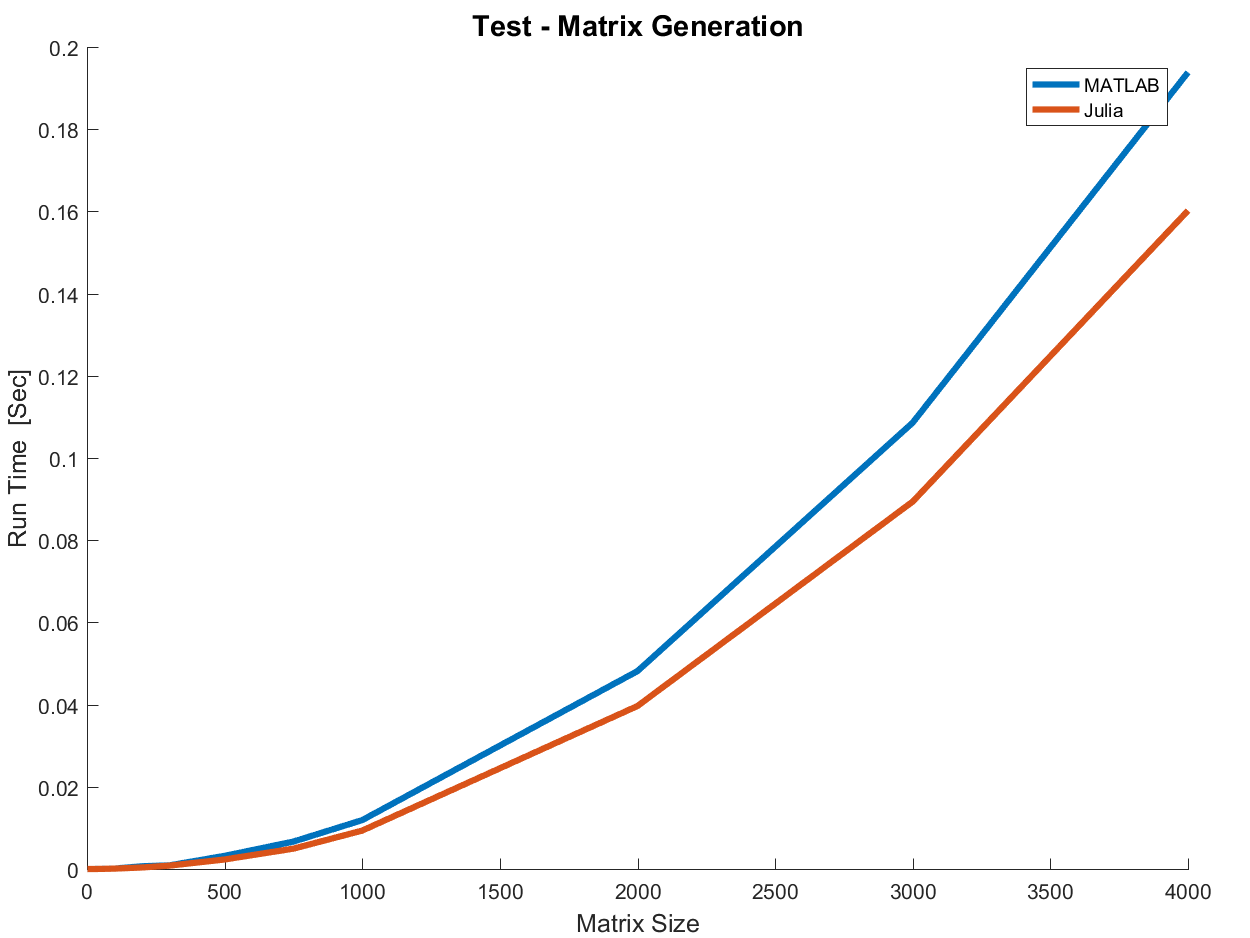
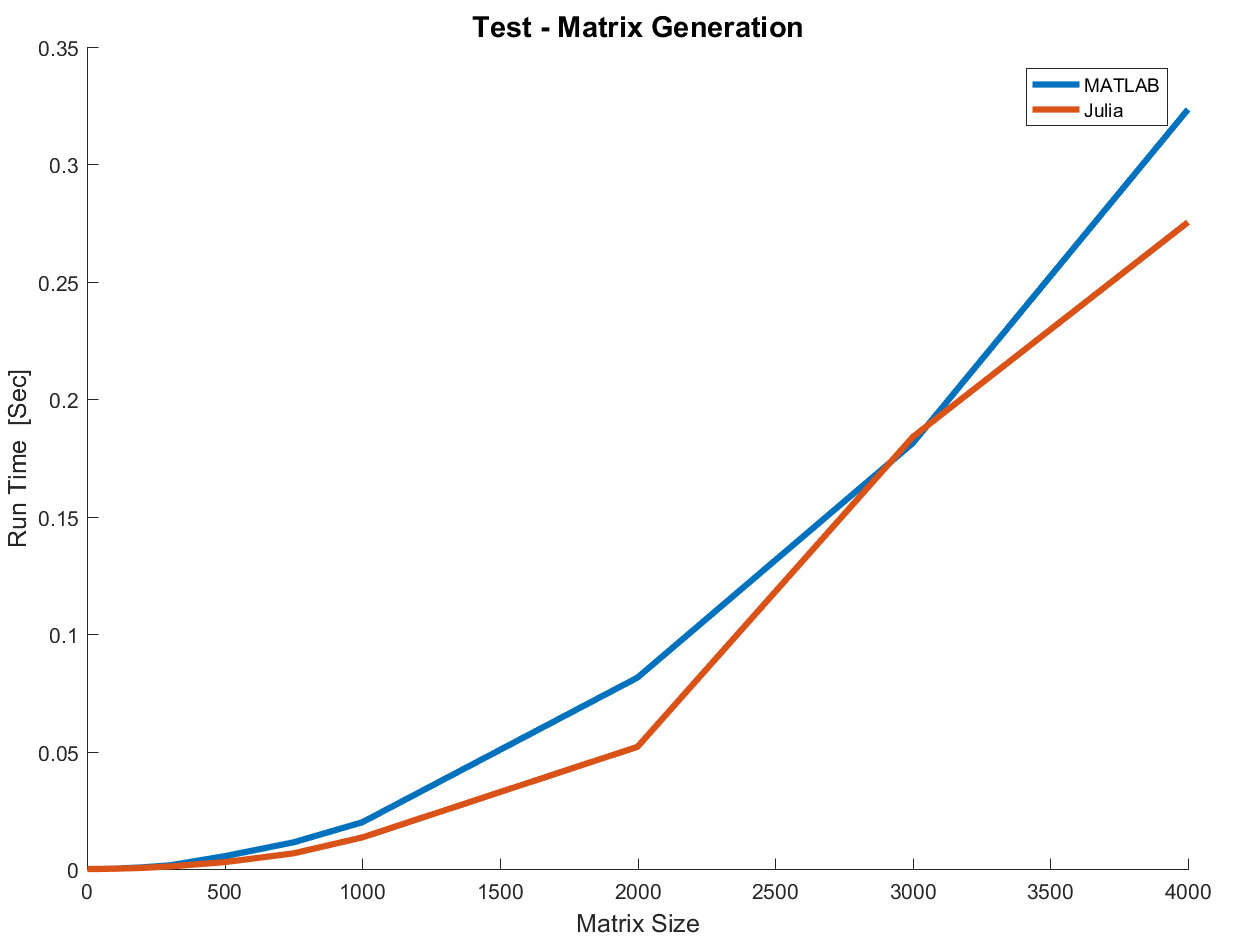
Version 1.0.002
New
	- 	Added many and changed tests (Results changed drastically).
	- 	Rerun Tests.
Fixed
	- 	B
To Do
	- 	Factorize into 3-4 Sub Tests (Separate functions).
	- 	Investigate results change.

diff --git a/MatlabMatrixBenchmark.m b/MatlabMatrixBenchmark.m
@@ -8,6 +8,12 @@ function [ mRunTime ] = MatlabMatrixBenchmark(  )
 % TODO:
 %   1.  A
 %   Release Notes:
+%   -   1.0.001     09/02/2017  Royi Avital
+%       *   Added 'MatrixExpRunTime()' and 'MatrixSqrtRunTime()'.
+%       *   Added Quadratic Matrix Form Calculation 'MatrixQuadraticFormRunTime()'.
+%       *   Added Univariate Quadratic Function Root to 'ElementWiseOperationsRunTime()'.
+%       *   Updated 'MatrixGenerationRunTime()' to include Uniform Random Number Generation.
+%       *   Fixed issue with 'CalcDistanceMatrixRunTime'.
 %   -   1.0.000     09/02/2017  Royi Avital
 %       *   First release version.
 % ----------------------------------------------------------------------------------------------- %
@@ -16,12 +22,13 @@ OPERATION_MODE_PARTIAL  = 1; %<! For Testing (Runs Fast)
 OPERATION_MODE_FULL     = 2;
 
 cRunTimeFunctions = {@MatrixGenerationRunTime, @MatrixAdditionRunTime, @MatrixMultiplicationRunTime, ...
-    @MatrixReductionsRunTime, @ElementWiseOperationsRunTime, @SvdRunTime, @EigRunTime, @MatInvRunTime, ...
-    @LinearSystemRunTime, @LeastSquaresRunTime, @CholDecRunTime, @CalcDistanceMatrixRunTime};
+    @MatrixQuadraticFormRunTime, @MatrixReductionsRunTime, @MatrixExpRunTime, @MatrixSqrtRunTime, @ElementWiseOperationsRunTime, ...
+    @SvdRunTime, @EigRunTime, @CholDecRunTime, @MatInvRunTime, ...
+    @LinearSystemRunTime, @LeastSquaresRunTime, @CalcDistanceMatrixRunTime};
 
-cFunctionString = {['Matrix Generation'], ['Matrix Addition'], ['Matrix Multiplication'], ['Matrix Reductions'], ...
-    ['Element Wise Operations'], ['SVD'], ['Eigen Decomposition'], ['Matrix Inversion'], ['Linear System Solution'], ...
-    ['Linear Least Squares'], ['Cholesky Decomposition'], ['Squared Distance Matrix']};
+cFunctionString = {['Matrix Generation'], ['Matrix Addition'], ['Matrix Multiplication'], ['Matrix Quadratic Form'], ['Matrix Reductions'], ...
+    ['Matrix Exponential'], ['Matrix Squared Root'], ['Element Wise Operations'], ['SVD'], ['Eigen Decomposition'], ['Cholesky Decomposition'], ...
+    ['Matrix Inversion'], ['Linear System Solution'], ['Linear Least Squares'], ['Squared Distance Matrix']};
 
 operationMode = OPERATION_MODE_FULL;
 
@@ -63,7 +70,10 @@ function [ mA, runTime ] = MatrixGenerationRunTime( matrixSize )
 
 tic();
 mA = randn(matrixSize, matrixSize);
+mB = rand(matrixSize, matrixSize);
 runTime = toc();
+
+mA = mA + mB;
 
 
 end
@@ -96,6 +106,20 @@ runTime = toc();
 
 end
 
+function [ mA, runTime ] = MatrixQuadraticFormRunTime( matrixSize )
+
+mA = randn(matrixSize, matrixSize);
+vX = randn(matrixSize, 1);
+vB = randn(matrixSize, 1);
+sacalrC = rand(1);
+
+tic();
+mA = (vX.' * mA * vX) + (vB.' * vX) + sacalrC;
+runTime = toc();
+
+
+end
+
 function [ mA, runTime ] = MatrixReductionsRunTime( matrixSize )
 
 mX = randn(matrixSize, matrixSize);
@@ -108,17 +132,42 @@ runTime = toc();
 
 end
 
-function [ mA, runTime ] = ElementWiseOperationsRunTime( matrixSize )
+function [ mA, runTime ] = MatrixExpRunTime( matrixSize )
 
 mX = randn(matrixSize, matrixSize);
-mY = randn(matrixSize, matrixSize);
 
 tic();
-mA = sqrt(abs(mX)) + sin(mY);
-mB = exp(-(mA .^ 2));
+mA = expm(mX);
 runTime = toc();
 
-mA = mA + mB;
+
+end
+
+function [ mA, runTime ] = MatrixSqrtRunTime( matrixSize )
+
+mX = randn(matrixSize, matrixSize);
+mX = mX.' * mX;
+
+tic();
+mA = sqrtm(mX);
+runTime = toc();
+
+
+end
+
+function [ mA, runTime ] = ElementWiseOperationsRunTime( matrixSize )
+
+mA = rand(matrixSize, matrixSize);
+mB = 3 + rand(matrixSize, matrixSize);
+mC = rand(matrixSize, matrixSize);
+
+tic();
+mD = abs(mA) + sin(mB);
+mE = exp(-(mA .^ 2));
+mF = (-mB + sqrt((mB .^ 2) - (4 .* mA .* mC))) ./ (2 .* mA);
+runTime = toc();
+
+mA = mD + mE + mF;
 
 
 end
@@ -147,6 +196,18 @@ runTime = toc();
 mA = mD + mV;
 
 
+end
+
+function [ mA, runTime ] = CholDecRunTime( matrixSize )
+
+mX = randn(matrixSize, matrixSize);
+mX = mX.' * mX;
+
+tic();
+mA = chol(mX);
+runTime = toc();
+
+  
 end
 
 function [ mA, runTime ] = MatInvRunTime( matrixSize )
@@ -197,25 +258,13 @@ mA = mX + vX;
 
 end
 
-function [ mA, runTime ] = CholDecRunTime( matrixSize )
-
-mX = randn(matrixSize, matrixSize);
-mX = mX.' * mX;
-
-tic();
-mA = chol(mX);
-runTime = toc();
-
-  
-end
-
 function [ mA, runTime ] = CalcDistanceMatrixRunTime( matrixSize )
 
 mX = randn(matrixSize, matrixSize);
 mY = randn(matrixSize, matrixSize);
 
 tic();
-mA = sum(mX .^ 2, 1).' - (2 .* mX.' .* mY) + sum(mY .^ 2, 1);
+mA = sum(mX .^ 2, 1).' - (2 .* mX.' * mY) + sum(mY .^ 2, 1);
 runTime = toc();
   
   

diff --git a/AnalyszeRunTimeResults.m b/AnalyszeRunTimeResults.m
@@ -27,9 +27,9 @@ figureIdx           = 0;
 figureCounterSpec   = '%04d';
 
 vMatrixSize = [2, 5, 10, 20, 50, 100, 200, 300, 500, 750, 1000, 2000, 3000, 4000];
-cFunctionString = {['Matrix Generation'], ['Matrix Addition'], ['Matrix Multiplication'], ['Matrix Reductions'], ...
-    ['Element Wise Operations'], ['SVD'], ['Eigen Decomposition'], ['Matrix Inversion'], ['Linear System Solution'], ...
-    ['Linear Least Squares'], ['Cholesky Decomposition'], ['Squared Distance Matrix']};
+cFunctionString = {['Matrix Generation'], ['Matrix Addition'], ['Matrix Multiplication'], ['Matrix Quadratic Form'], ['Matrix Reductions'], ...
+    ['Matrix Exponential'], ['Matrix Squared Root'], ['Element Wise Operations'], ['SVD'], ['Eigen Decomposition'], ['Cholesky Decomposition'], ...
+    ['Matrix Inversion'], ['Linear System Solution'], ['Linear Least Squares'], ['Squared Distance Matrix']};
 
 
 %% Setting Parameters

diff --git a/README.md b/README.md
@@ -1,6 +1,9 @@
 # Matlab & Julia Matrix Operations Benchmark
 
 This is a small benchmark of some common Matrix Operations (Linear Algebra Oriented).  
+The purpose of this Benchmark is to display Run Time of various commonly used operations by Signal / Image / Data Processing Algorithm Engineers. 
+It was born from curiosity to to try Julia and if it will assist any user of Julia / MATLAB it served its purpose.
+Better yet if it would assist Julia / MATLAB Developers to extract even better performance from their product it served its purpose twice.
 
 ## Results
 This sections displays the results of the sub tests of the benchmark.
@@ -149,15 +152,20 @@ mRunTime = JuliaMatrixBenchmark();
  * Images of the performance test will be created and displayed.
 
 ## Remarks
- * I'm not an expert in Julia (Actually was my first time). Hence, if there are way to improve run time, please share. I did took advise from [More Dots: Syntactic Loop Fusion in Julia][20].
- * This is only a small sub set of operations. I will expand it with time. If you have ideas, please share.
+ * I'm not an expert in Julia (Actually this was my first time coding Julia). Hence, if there are ways to improve the run time, please share with me. I did took advise from [More Dots: Syntactic Loop Fusion in Julia][20].
+ * This is only a small sub set of operations. I will expand it with time. If you have ideas for small micro benchmark to be added, please share.
  * For each function the output was set to dependent on the calculation which was timed to prevent JIT optimizations which excludes the calculation (MATLAB infers the calculation has no effect on the output and doesn't run it).
  * The MATLAB code uses Broadcasting which is a feature added on MATLAB R2016b. Hence the test requires this version or one must adjust the code (Use `bsxfun()`).
+ * There is no perfect test and this is far from being one. All it tried to do is measure run time of few common operations done by Signal / Image / Data Processing Algorithm Engineers. If it can assist MATLAB and Julia creators to improve performance and tune their implementation it served it purpose.
 
 ## TODO
  * Check if Julia code is efficient.
  * Add Python (NumPy).
- * Add more tests.
+ * Add more tests (Some real world algorithms)
+   * Matrix Square Root (`sqrt()`).
+   * Orthogonal Matching Pursuit.
+   * K-Means.
+   * Reweighted Iterative Least Squares.
  * Devectorize Element Wise Operations (Loop Fusion isn't working yet). See <https://discourse.julialang.org/t/benchmark-matlab-julia-for-matrix-operations/2000/7>.
 
  
